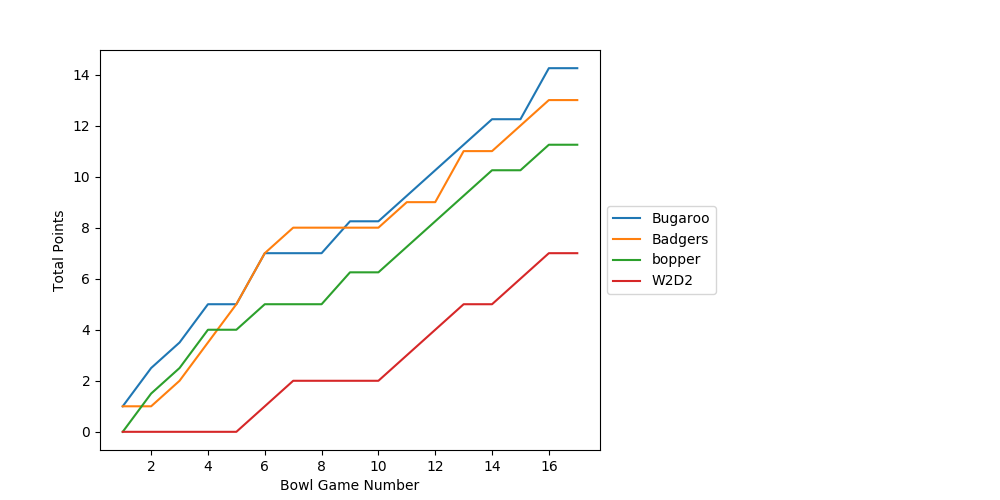
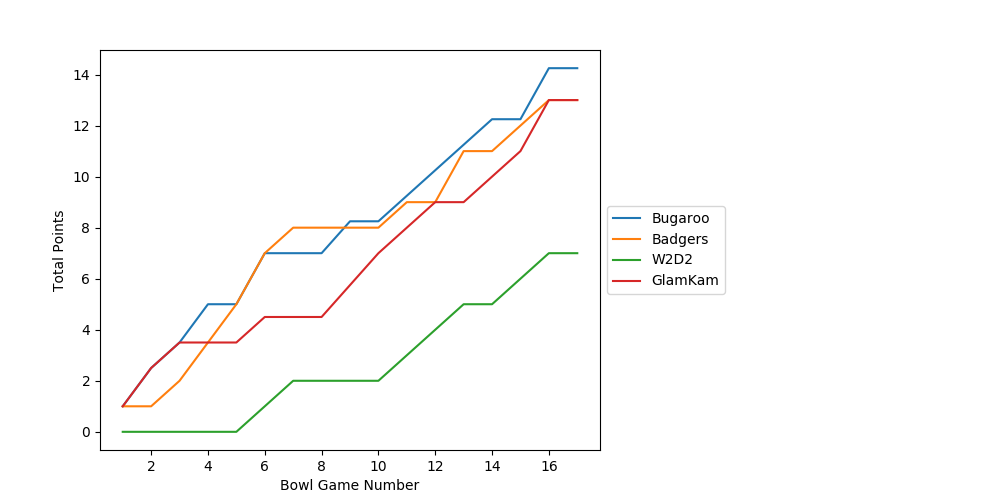
Update through Dec. 28th games with highlights

diff --git a/bowl_pool/2022-2023/rankings.html b/bowl_pool/2022-2023/rankings.html
@@ -364,15 +364,15 @@ ul.auto-toc {
 
 
 <div class="line-block">
-<div class="line"><em>Last updated:  2022-12-29 09:18:17</em></div>
+<div class="line"><em>Last updated:  2022-12-29 09:23:13</em></div>
 <div class="line"><em>Last bowl scored:  Texas Bowl (Ole Miss vs. Texas Tech)</em></div>
 </div>
 <div class="line-block">
 <div class="line">1. <strong>Bugaroo 14.25</strong></div>
 <div class="line">2. <strong>Badgers 13.0</strong></div>
-<div class="line">2. GlamKam 13.0</div>
+<div class="line">2. <strong>GlamKam 13.0</strong></div>
 <div class="line">4. MamaLonghorn 12.5</div>
-<div class="line">5. <strong>bopper 11.25</strong></div>
+<div class="line">5. bopper 11.25</div>
 <div class="line">6. Sure Thing Shipley 11.0</div>
 <div class="line">7. D-bo 10.25</div>
 <div class="line">8. Amanda 10.0</div>

diff --git a/bowl_pool/2022-2023/index.html b/bowl_pool/2022-2023/index.html
@@ -365,7 +365,7 @@ ul.auto-toc {
 
 <p><strong>2022-2023 Bowl Pool</strong></p>
 <div class="line-block">
-<div class="line"><em>Last updated:  2022-12-29 09:18:17</em></div>
+<div class="line"><em>Last updated:  2022-12-29 09:23:14</em></div>
 <div class="line"><em>Last bowl scored:  Texas Bowl (Ole Miss vs. Texas Tech)</em></div>
 </div>
 <ul class="simple">
